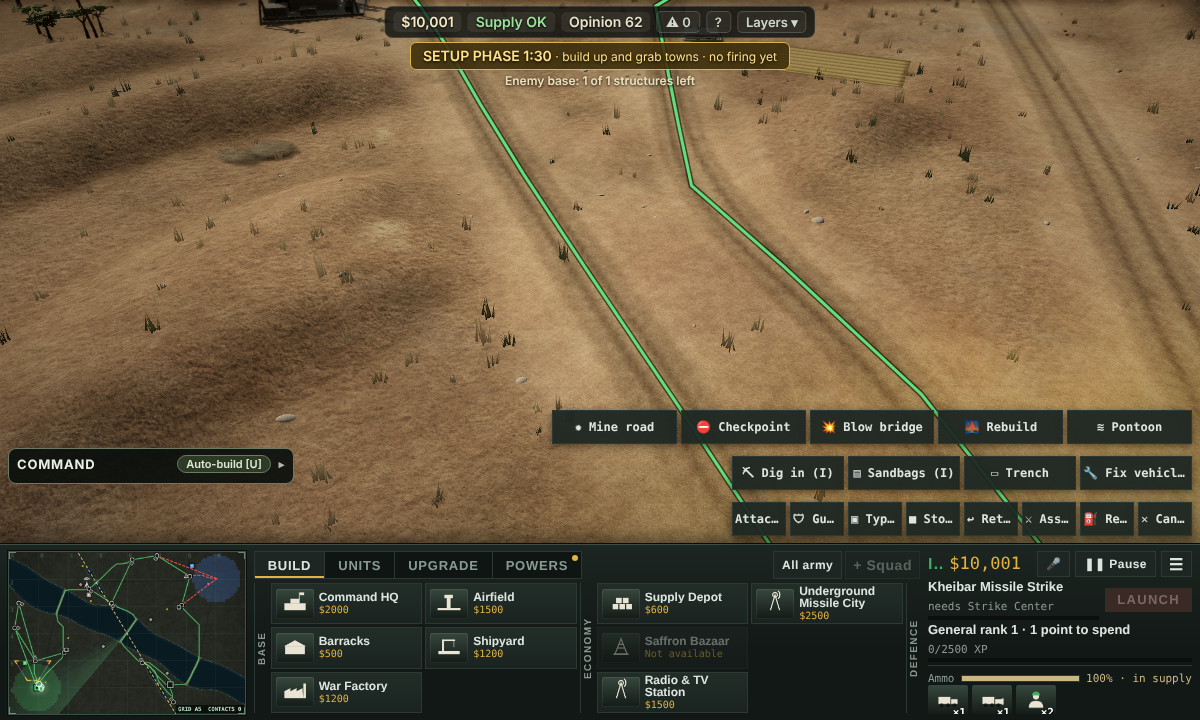
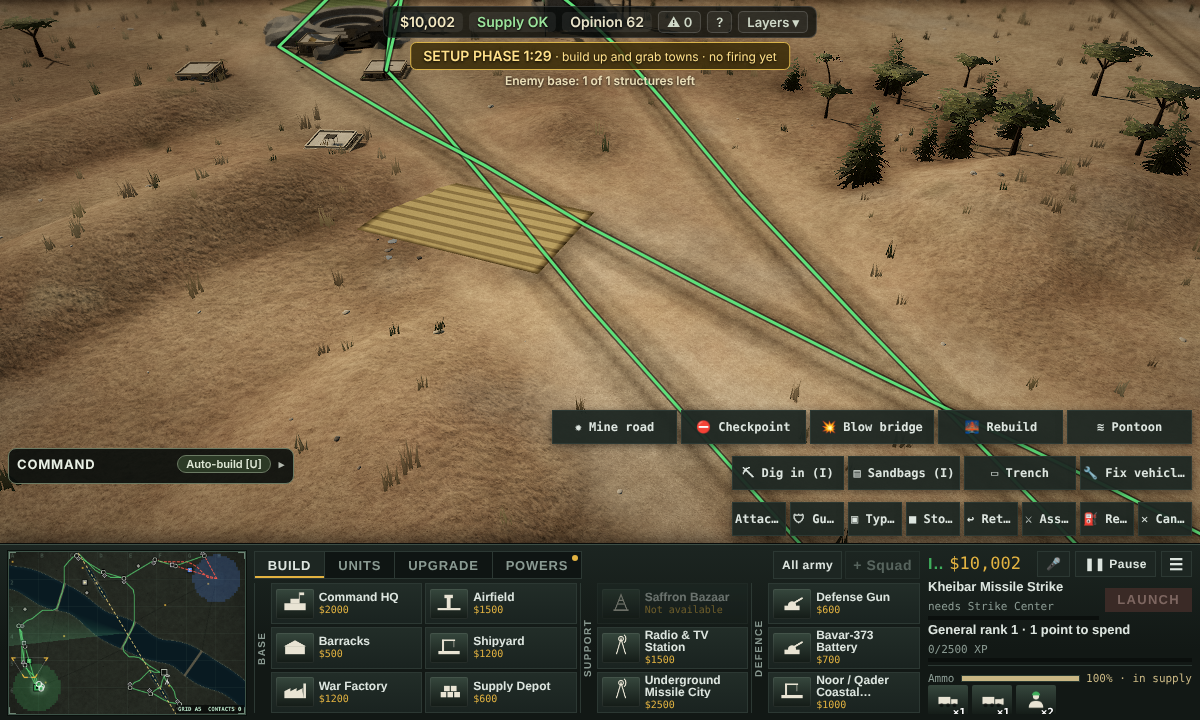
ingameui: history, status, final shots
Claude-Session: https://claude.ai/code/session_01GRiS9mMEGnQSefazewqxuS

diff --git a/orch/status.html b/orch/status.html
@@ -14,7 +14,7 @@ h2{font-size:13px;letter-spacing:.06em;text-transform:uppercase;color:var(--mut)
 .it small{display:block;color:var(--mut);font-size:12px}.feed div{padding:6px 0;border-top:1px solid var(--line);font-size:13px}.feed div:first-of-type{border-top:0}
 .feed em{color:var(--mut);font-style:normal;font-size:12px}a{color:var(--acc)}
 </style></head><body><div class="wrap"><h1>World War 3 · Saturday tracker</h1>
-<div class="sub">Updated 1:29 PM Chicago · deadline 8:00 pm · <a href="../">Play the game</a></div>
-<div class="top"><div class="stat"><b>16 / 18</b><span>items done</span></div><div class="stat"><b>6 h 30 m</b><span>until 8:00 pm (at update time)</span></div><div class="stat"><b>1:25 PM</b><span>last change to the game</span></div></div>
+<div class="sub">Updated 2:32 PM Chicago · deadline 8:00 pm · <a href="../">Play the game</a></div>
+<div class="top"><div class="stat"><b>16 / 18</b><span>items done</span></div><div class="stat"><b>5 h 27 m</b><span>until 8:00 pm (at update time)</span></div><div class="stat"><b>1:57 PM</b><span>last change to the game</span></div></div>
 <div class="bar"><i style="width:88%"></i></div><div class="lane"><h2>Real-world map</h2><div class="it ok"><span class="dot"></span><div>Real borders and sizes (Natural Earth)<small>Done · A-MAP</small></div></div></div><div class="lane"><h2>Grand-map look</h2><div class="it ok"><span class="dot"></span><div>Painted real-Earth terrain<small>Done · C-LOOK1</small></div></div><div class="it ok"><span class="dot"></span><div>Total War-style army figures<small>Done · C-LOOK3</small></div></div><div class="it ok"><span class="dot"></span><div>Towns: villages, cities, megacities<small>Done · C-TOWNS</small></div></div></div><div class="lane"><h2>Battle look</h2><div class="it ok"><span class="dot"></span><div>De-block 1: real crates and barrels<small>Done · DB1</small></div></div><div class="it ok"><span class="dot"></span><div>De-block 2: buildings with real materials<small>Done · DB2</small></div></div><div class="it ok"><span class="dot"></span><div>De-block 3: textured ground, tracks, rocks<small>Done · DB3</small></div></div><div class="it ok"><span class="dot"></span><div>De-block 4: bigger soldiers, worn vehicles<small>Done · DB4</small></div></div><div class="it ok"><span class="dot"></span><div>Dust and sandstorms<small>Done · RF13</small></div></div><div class="it ok"><span class="dot"></span><div>Night tracers and flares<small>Done · RF15</small></div></div></div><div class="lane"><h2>Battle rules</h2><div class="it ok"><span class="dot"></span><div>Hidden units and spotting<small>Done · RF1</small></div></div><div class="it ok"><span class="dot"></span><div>Front/side/rear armour<small>Done · RF2</small></div></div><div class="it ok"><span class="dot"></span><div>Artillery delay and counter-battery<small>Done · RF3</small></div></div></div><div class="lane"><h2>Government</h2><div class="it ok"><span class="dot"></span><div>TV news broadcasts<small>Done · RG5</small></div></div><div class="it run"><span class="dot"></span><div>Nuclear programme and strike<small>In progress · RG10</small></div></div></div><div class="lane"><h2>Grand engine</h2><div class="it ok"><span class="dot"></span><div>Start date 1 Nov 2026<small>Done · A-DATE</small></div></div><div class="it ok"><span class="dot"></span><div>Realistic AI wars<small>Done · A-REAL</small></div></div></div><div class="lane"><h2>Portraits</h2><div class="it run"><span class="dot"></span><div>Portraits round 3 (sheet for your approval)<small>In progress · PORT</small></div></div></div>
-<div class="feed"><h2>Latest changes</h2><div>laneE DE-BLOCK slices 3+4b: compound debris, vehicle hull bump normal<br><em>1:25 PM</em></div><div>laneE: DE-BLOCK slice 8 quarry/mine/factory/dam<br><em>1:15 PM</em></div><div>laneE DE-BLOCK slice 2: rooftop clutter + compound wall with gate on ME main buildings<br><em>1:04 PM</em></div><div>laneC: grand-map ships in proportion<br><em>12:55 PM</em></div><div>laneE: DE-BLOCK slice 7 facade windows/door/lamp<br><em>12:42 PM</em></div><div>lobbies2 handoff<br><em>12:23 PM</em></div><div>status refresh<br><em>12:23 PM</em></div><div>lobbies2: shared lobby kit, battle lobby restyle (flags, morale, invite card, map facts, toasts, ready countdo<br><em>12:23 PM</em></div><div>laneC: army plates collision-culled<br><em>12:07 PM</em></div><div>laneC: artbar note (plinth already shipped by grandlook)<br><em>12:07 PM</em></div></div></div></body></html>
+<div class="feed"><h2>Latest changes</h2><div>laneF: RF10 last stand +25% damage (sim change)<br><em>1:57 PM</em></div><div>laneE: slice 9 close shot<br><em>1:35 PM</em></div><div>laneE: DE-BLOCK slice 9 guard towers + camo net on ME compounds<br><em>1:34 PM</em></div><div>laneC: rebuild index.html on latest main<br><em>1:33 PM</em></div><div>laneC: grand-map sea colour variation, distance-faded ripples<br><em>1:32 PM</em></div><div>status<br><em>1:32 PM</em></div><div>laneE DE-BLOCK slices 3+4b: compound debris, vehicle hull bump normal<br><em>1:25 PM</em></div><div>laneE: DE-BLOCK slice 8 quarry/mine/factory/dam<br><em>1:15 PM</em></div><div>laneE DE-BLOCK slice 2: rooftop clutter + compound wall with gate on ME main buildings<br><em>1:04 PM</em></div><div>Grand campaign lobby: Play with friends / Join friends, slots, nation pick, Ready, invite link, Start<br><em>12:58 PM</em></div></div></div></body></html>

diff --git a/orch/HISTORY.md b/orch/HISTORY.md
@@ -442,3 +442,6 @@ laneG note: gate/grand 'eco snowballs net per province max 794 vs median 124' (L
 - laneC 2026-11-07 19:xx: grand-map sea colour variation + distance-faded ripple shading (water 3.5 -> 3.8); shots orch/shots/laneC/q0,q1.
 
 - laneF 2026-11-07 19:45Z: RF10 last stand +25% damage (dmgOut, 03-sim). Chain: surrounded troops (who reacts: attackers who encircle pay in casualties); cost: pinned down; counter: break the ring/artillery. Smoke FAIL only on known NaN-geometry console error (unchanged main).
+- ingameui slice 1: grand-map province panel = header (flag, name, owner, Capital/War-goal badge, stat chips) + tabs Overview · Recruit · Build · Govern; recruit as unit cards (silhouette, ×count, cost, months, repeat ↻, why-disabled on hover), buildings as icon cards + slot boxes, Tax/Autonomy as segmented choices; new in-game kit `src/08j-uikit.js` (UK). Shots orch/shots/ingameui/.
+- ingameui slice 2: battle BUILD/UNITS tiles get silhouette icons; BUILD grouped Base / Support / Defence; selected-unit card (icon, rank stars, HP bar) and group icons ×n in the info panel.
+- ingameui slice 3: pause menu = one centred panel with a text menu (Resume · Settings · Save · Load · Encyclopedia · Restart · Quit to menu); Settings split into Gameplay · Controls · Graphics · Audio tabs; Esc from Settings steps back. Slice 4: one tooltip style (any `title`/`data-tt` → styled tip matching the battle tip). Gate: grandtest/menuhud/newplayer/ingameui PASS; CI reds (NaN bounding sphere, gnuke "turn" wording, smooth-pc draw calls 2207) also fail on main without this change.
